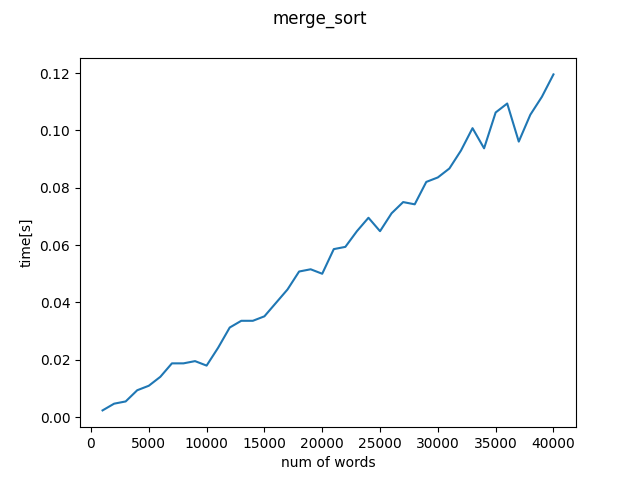
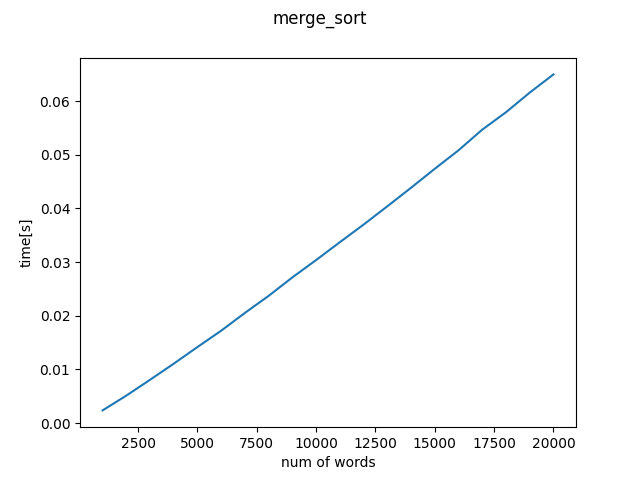
small changes, regenerated images

diff --git a/main.py b/main.py
@@ -25,26 +25,32 @@ def measure_time(func, n, text):
 def test_sorting(func, text, min, max, increments):
     test_t = []
     test_n = []
+    #  for i in range(min, max+1, increments):
+    #     if ((func.__name__ == "bubble_sort" or func.__name__ == "selection_sort") and i > 4000):
+    #         #limit for bubble and selection sort so it doesnt take so much time
+    #         continue
     for i in range(min, max+1, increments):
-        if ((func.__name__ == "bubble_sort" or func.__name__ == "selection_sort") and i > 4000):
-            #limit for bubble and selection sort so it doesnt take so much time
-            continue
-
         del_time = 0
 
-        for j in range(NUM_OF_MEASUREMENTS):
+        for _ in range(NUM_OF_MEASUREMENTS):
             del_time += measure_time(func, i, text)
         del_time = del_time/NUM_OF_MEASUREMENTS
         test_t.append(del_time)
         test_n.append(i)
-        print(f'num of iteration {i}')
+        print(f'num of iteration (words) {i}')
     return test_n, test_t
 
 def main():
-    func_list = [sort_lib.bubble_sort, sort_lib.quick_sort, sort_lib.merge_sort, sort_lib.selection_sort]
+    # func_list = [sort_lib.bubble_sort, sort_lib.quick_sort, sort_lib.merge_sort, sort_lib.selection_sort]
+    #boilerplate bo nie ma sensu pisać pętli, każde argumenty właściwie inne
     func_out_list = []
-    for x in func_list:
-        func_out_list.append((x, test_sorting(x, text, 1000, 40000, 1000)))
+    func_out_list.append((sort_lib.bubble_sort, test_sorting(sort_lib.bubble_sort, text, 1000, 4000, 1000)))
+    func_out_list.append((sort_lib.selection_sort, test_sorting(sort_lib.selection_sort, text, 1000, 6000, 1000)))
+    func_out_list.append((sort_lib.quick_sort, test_sorting(sort_lib.quick_sort, text, 1000, 20000, 1000)))
+    func_out_list.append((sort_lib.merge_sort, test_sorting(sort_lib.merge_sort, text, 1000, 20000, 1000)))
+
+    # for x in func_list:         
+    #     func_out_list.append((x, test_sorting(x, text, 1000, 20000, 1000)))
 
     for i in range(len(func_out_list)):
         fname = func_out_list[i][0].__name__
